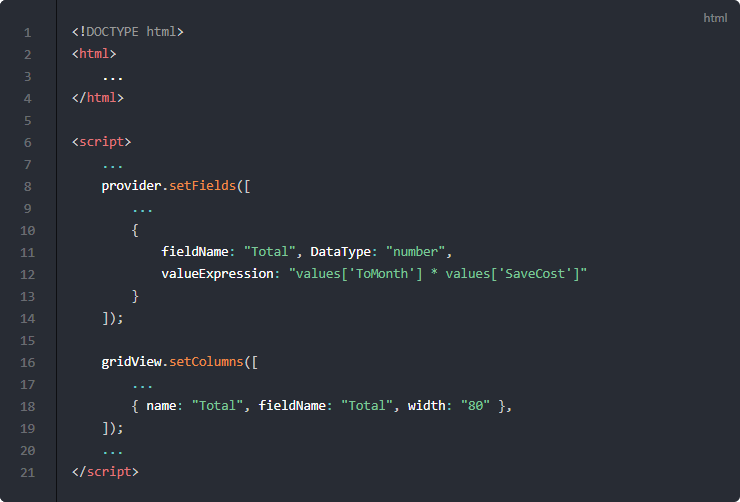
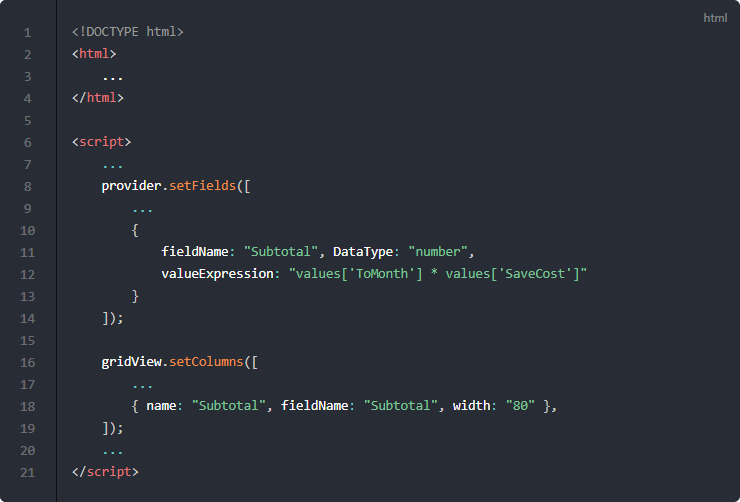
total을 subtotal로 변경

Changed region(s): [[0.2797, 0.7769, 0.7149, 0.8367], [0.3419, 0.4781, 0.6216, 0.5378]]

diff --git a/vuepress/.vuepress/public/samples/realgrid2/part-1/09/step-01.html b/vuepress/.vuepress/public/samples/realgrid2/part-1/09/step-01.html
@@ -30,22 +30,22 @@
 		{ fieldName: "SaveCost",        dataType: "number" },
 		
 		{ 
-			fieldName: "Total", 		DataType: "number",
+			fieldName: "Subtotal", 		DataType: "number",
     		valueExpression: "values['ToMonth'] * values['SaveCost']"
   		}
     ]);
 
     gridView.setColumns([
-		{ name: "KorName",              fieldName: "KorName", width: "60" },
-		{ name: "Gender",               fieldName: "Gender", width: "40" },
-		{ name: "Age",                  fieldName: "Age", width: "40" },
-		{ name: "Phone",                fieldName: "Phone", width: "100" },
-		{ name: "ProductId",            fieldName: "ProductId", width: "120" },
-		{ name: "KorCountry",           fieldName: "KorCountry", width: "100" },
-		{ name: "ToMonth",              fieldName: "ToMonth", width: "80" },
-		{ name: "SaveCost",             fieldName: "SaveCost", width: "80" },
+		{ name: "KorName",    fieldName: "KorName",    width: "60" },
+		{ name: "Gender",     fieldName: "Gender",     width: "40" },
+		{ name: "Age",        fieldName: "Age",        width: "40" },
+		{ name: "Phone",      fieldName: "Phone",      width: "100" },
+		{ name: "ProductId",  fieldName: "ProductId",  width: "120" },
+		{ name: "KorCountry", fieldName: "KorCountry", width: "100" },
+		{ name: "ToMonth",    fieldName: "ToMonth",    width: "80" },
+		{ name: "SaveCost",   fieldName: "SaveCost",   width: "80" },
 		
-		{ name: "Total",          		fieldName: "Total", width: "80" },
+		{ name: "Subtotal",   fieldName: "Subtotal",   width: "80" },
     ]);
 
     var data_url = 

diff --git a/vuepress/.vuepress/public/samples/realgrid2/part-1/09/step-02.html b/vuepress/.vuepress/public/samples/realgrid2/part-1/09/step-02.html
@@ -30,21 +30,22 @@
 		{ fieldName: "SaveCost",        dataType: "number" },
 		
 		{ 
-			fieldName: "Total", 		DataType: "text",
+			fieldName: "Subtotal", 		DataType: "text",
     		valueCallback: calcTotal
   		}
     ]);
 
     gridView.setColumns([
-		{ name: "KorName",              fieldName: "KorName", width: "60" },
-		{ name: "Gender",               fieldName: "Gender", width: "40" },
-		{ name: "Age",                  fieldName: "Age", width: "40" },
-		{ name: "Phone",                fieldName: "Phone", width: "100" },
-		{ name: "ProductId",            fieldName: "ProductId", width: "120" },
-		{ name: "KorCountry",           fieldName: "KorCountry", width: "100" },
-		{ name: "ToMonth",              fieldName: "ToMonth", width: "80" },
-		{ name: "SaveCost",             fieldName: "SaveCost", width: "80" },
-		{ name: "Total",          		fieldName: "Total", width: "180" },
+		{ name: "KorName",    fieldName: "KorName",    width: "60" },
+		{ name: "Gender",     fieldName: "Gender",     width: "40" },
+		{ name: "Age",        fieldName: "Age",        width: "40" },
+		{ name: "Phone",      fieldName: "Phone",      width: "100" },
+		{ name: "ProductId",  fieldName: "ProductId",  width: "120" },
+		{ name: "KorCountry", fieldName: "KorCountry", width: "100" },
+		{ name: "ToMonth",    fieldName: "ToMonth",    width: "80" },
+		{ name: "SaveCost",   fieldName: "SaveCost",   width: "80" },
+		
+		{ name: "Subtotal",   fieldName: "Subtotal",   width: "80" },
     ]);
 
     var data_url = 
